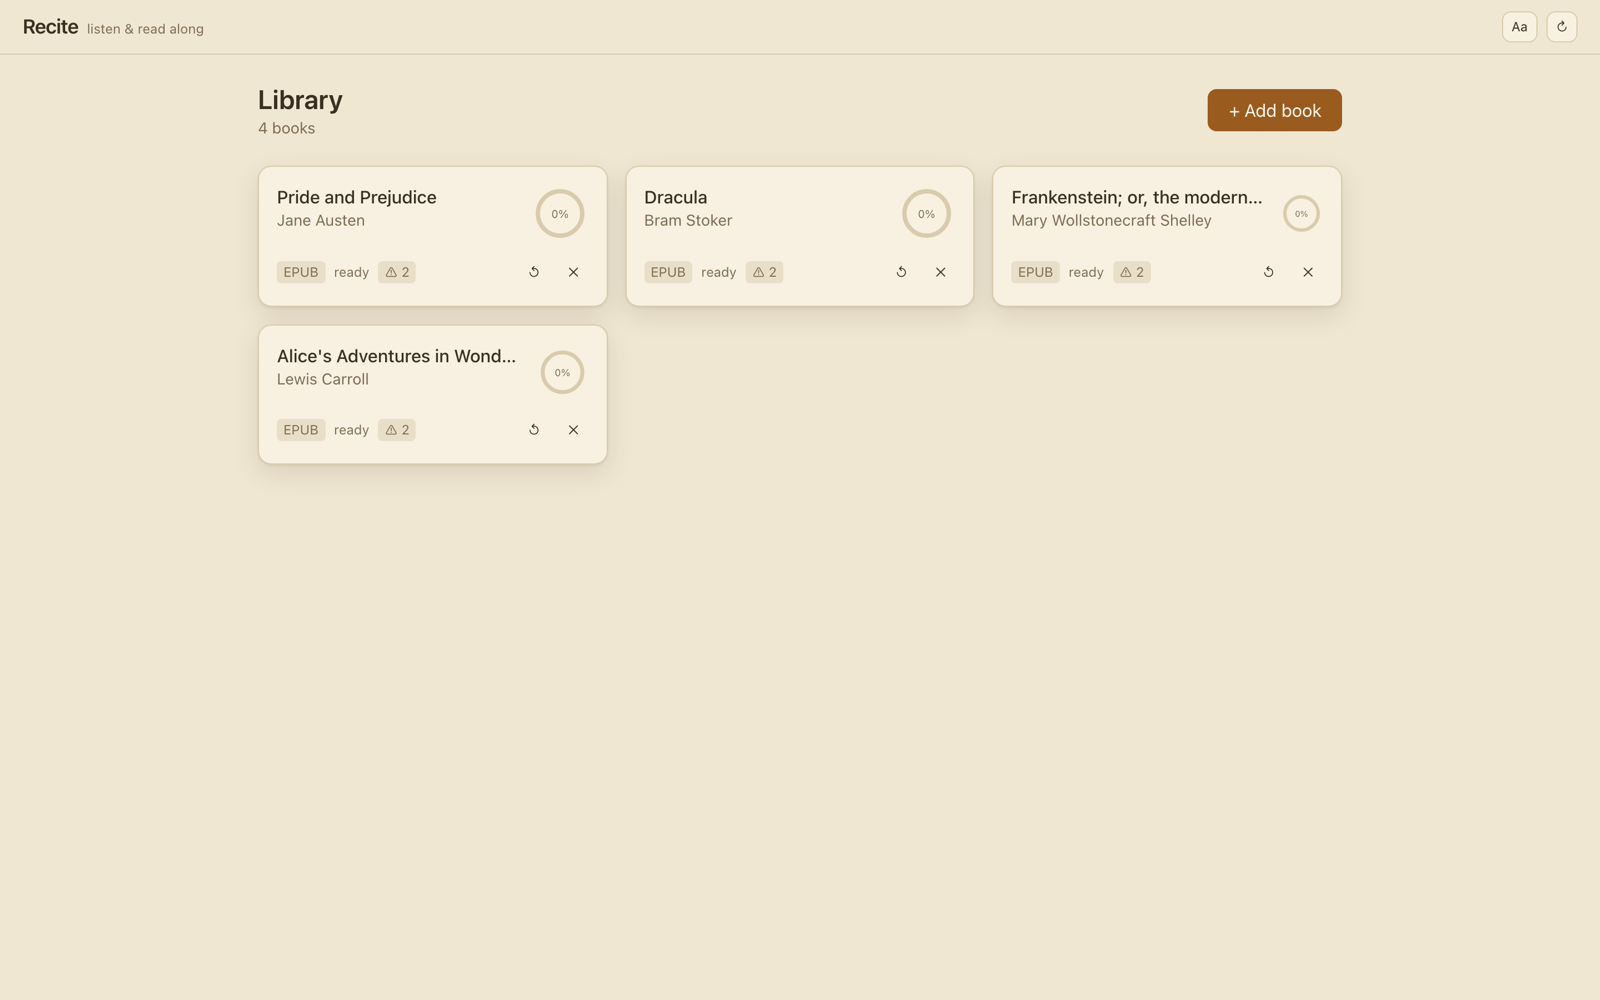
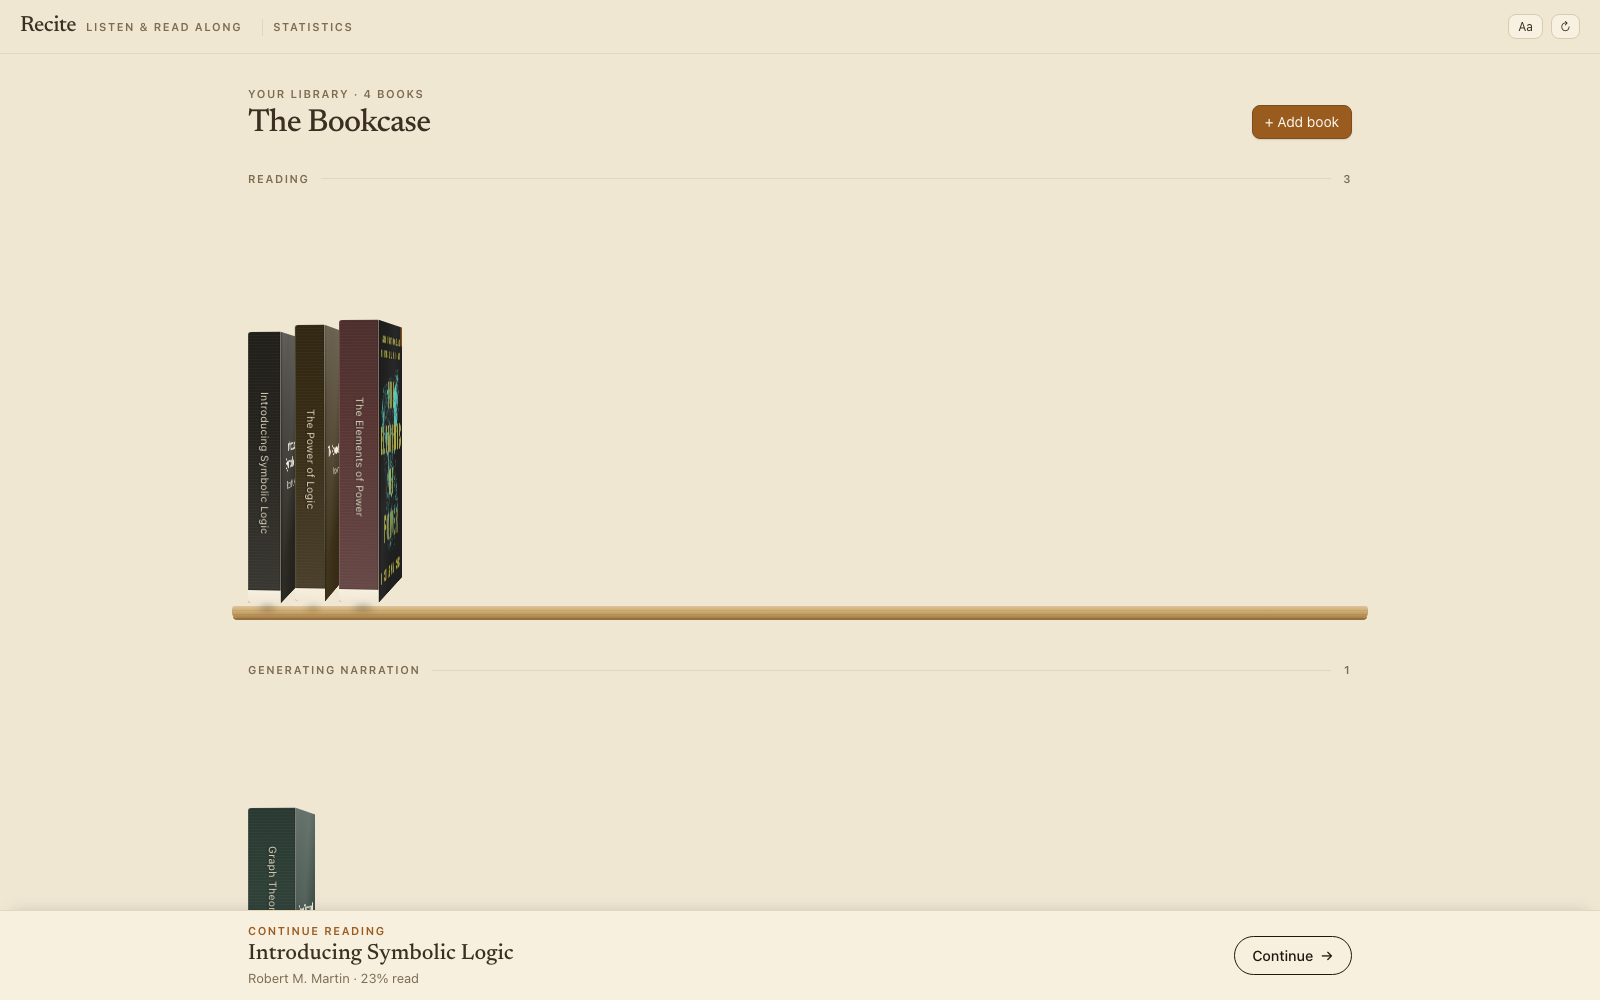
docs: refreshed screenshots and README for the listening-comfort pass
All four shots re-taken on the current build (sleep timer in the
transport, karaoke live). README gains a keyboard table, the listening
comfort feature bullet, and an OS-integration design note.

diff --git a/README.md b/README.md
@@ -12,10 +12,10 @@ style. Nothing leaves your machine: synthesis runs locally via
 locally, and the only network traffic is the one-time model download.
 
 <p>
-  <img src="docs/screenshots/02-reader-karaoke.png" alt="Recite reader following along with Alice's Adventures in Wonderland, the spoken words highlighted mid-sentence" width="100%">
+  <img src="docs/screenshots/02-reader-karaoke.png" alt="The Recite reader following along with a book, the spoken word highlighted mid-sentence" width="100%">
 </p>
 <p>
-  <img src="docs/screenshots/01-library-sepia.png" alt="Recite library with four books and progress rings" width="49.5%">
+  <img src="docs/screenshots/01-library-sepia.png" alt="The Recite library — spines on a wooden shelf with progress ribbons" width="49.5%">
   <img src="docs/screenshots/04-reader-dark.png" alt="The same reader in the dark theme" width="49.5%">
 </p>
 
@@ -33,6 +33,10 @@ locally, and the only network traffic is the one-time model download.
 - **Reading tools** — bookmarks, four-color text highlights, ±10 s skips,
   speed control with pitch preservation, chapter jumps (`J`/`L`), and
   per-book resume.
+- **Listening comfort** — a sleep timer (minutes or end-of-section, with a
+  gentle fade-out, `Z`), OS media keys and lock-screen scrubbing with cover
+  art, and a screen that stays awake while narrating. Pausing after a real
+  stretch brings a quiet "you read for…" card with one confetti pop.
 - **Reader comfort** — sepia/light/dark themes, font family and size, line
   height, highlighter or underline styles.
 - **Live status** — section synthesis progress streams over SSE, so the
@@ -62,7 +66,21 @@ make run                # http://localhost:8744
 2. Open a book — the first sections synthesize ahead of your reading
    position while the rest generates in the background.
 3. Read along: the highlighted word tracks the audio; click any word or
-   section, scrub, or press `J`/`L` to jump chapters.
+   section, scrub, or press `J`/`L` to jump chapters. Drifting off?
+   `Z` arms the sleep timer.
+
+### Keyboard
+
+| Key | Action |
+| --- | --- |
+| `Space` | play / pause |
+| `←` / `→` | ±10 s — in paged mode, turn the page (`Shift` seeks ±60 s) |
+| `J` / `L` | previous / next ready section |
+| `B` | pin a bookmark at the playhead |
+| `F` | toggle follow-the-narration |
+| `/` | search the book |
+| `Z` | sleep timer |
+| `Esc` | close panels, re-shelve the presented book |
 
 Data lives under the data dir (default
 `~/Library/Application Support/recite/` on macOS: SQLite + per-book audio).
@@ -102,6 +120,10 @@ image-heavy scan) is pinned by deterministic generated fixtures — see
 - One MP3 per section; word timings are section-relative ms. Playback is a
   single `<audio>` element with one seek path — Tauri-wrap-ready (all URLs
   relative).
+- OS integration hangs off that one element: Media Session (lock-screen
+  scrubbing, media keys, cover art), a screen wake lock while narrating,
+  and a sleep timer that is nothing more than a volume ramp — none of it
+  touches the seek path.
 - Word timings come from WhisperX forced alignment when installed
   (`whisperx`, `ctranslate2`), otherwise pause-budget interpolation, which
   re-zeros every chunk.
